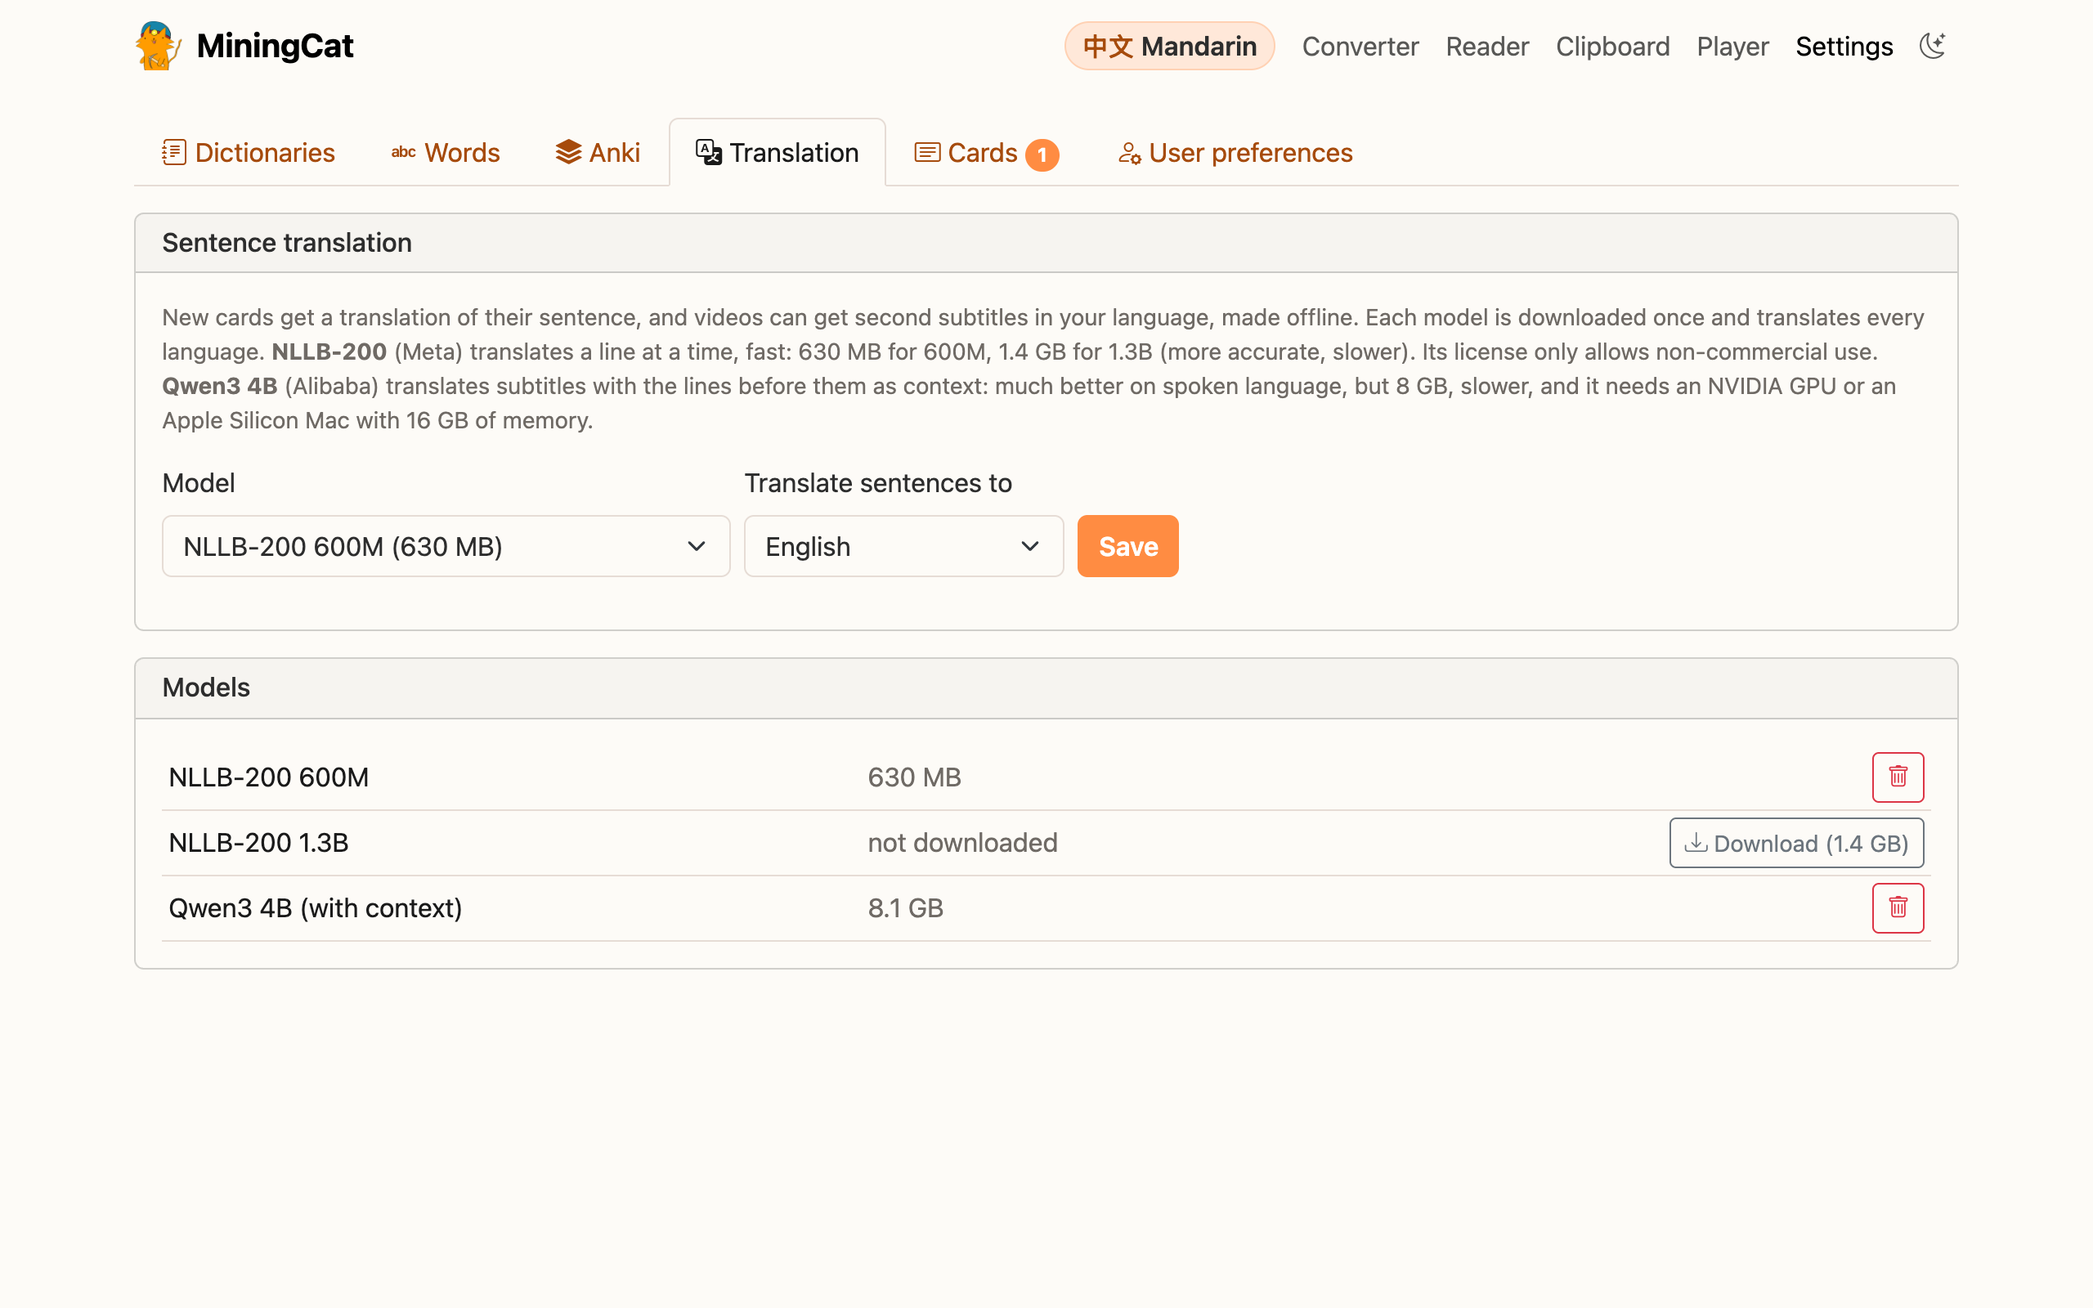
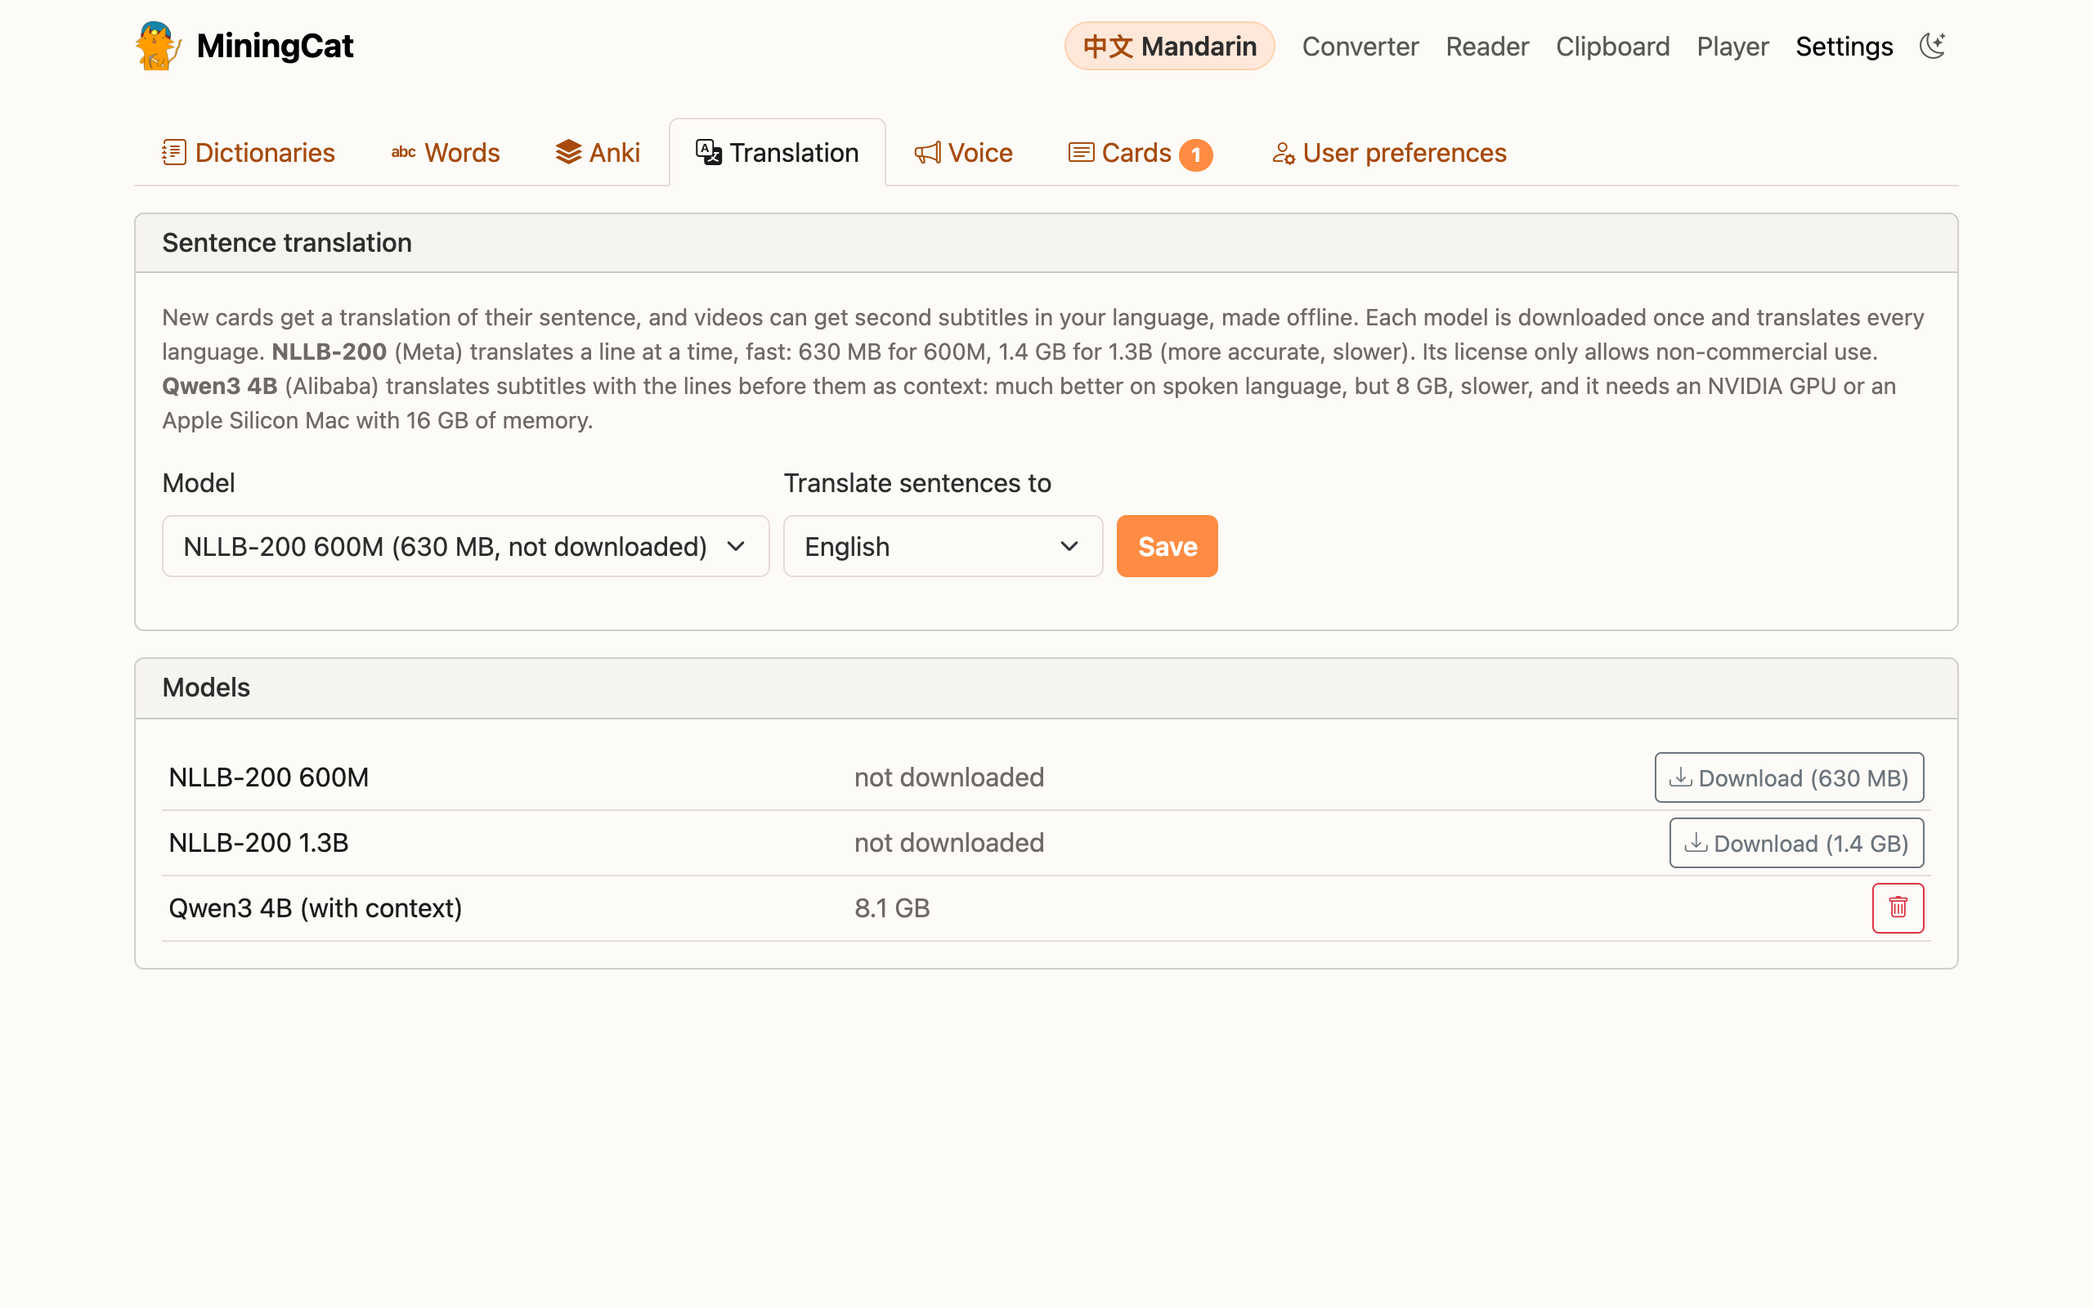
feat: enhance local TTS support for Taigi + updated docs

diff --git a/src/miningcat/interfaces/web/static/settings.js b/src/miningcat/interfaces/web/static/settings.js
@@ -349,24 +349,56 @@ const STEP_LABELS = { 8: "Fast (8 steps)", 16: "Better (16 steps, 2× slower)", 
 
 async function renderLocalVoice() {
   try {
-    const voice = await api("/api/tts/local-voice");
+    const voice = await api(`/api/tts/local-voice?language=${encodeURIComponent(STUDY)}`);
     $("tts-use-edge").checked = voice.use_edge;
+    const taigi = Boolean(voice.mms);  // Edge has no Taigi voice: MMS or OmniVoice
+    $("edge-option").hidden = taigi;
+    $("tts-intro").textContent = taigi
+      ? "Sentences are read by Meta's MMS or by OmniVoice, voices running on your computer (saved right away). MMS is generally faster."
+      : "Sentences are read by OmniVoice, a voice running on your computer (every language), or by Edge's voices (saved right away).";
+    renderTaigiVoice(taigi);
     options($("tts-steps"), voice.steps.map((s) => [String(s), STEP_LABELS[s] || `${s} steps`]), String(voice.chosen_steps));
     $("local-voice-options").hidden = !voice.installed;
     $("local-voice-install").hidden = voice.installed;
+    $("mms-voice").hidden = !voice.mms || voice.mms.installed;  // Taigi's own voice
+    if ((voice.mms && !voice.mms.installed) || (taigi && !voice.installed)) followInstall();
     const state = $("local-voice-state");
-    if (voice.installed) {
+    if (taigi) {
+      state.textContent = voice.installed
+        ? "OmniVoice is installed. The first sentence takes longer: the voice loads (and is made up, the first time)."
+        : `OmniVoice is optional for Taigi, MMS reads it. Large: about 4 GB with its model (or ${voice.install_command}).`;
+      state.className = "small text-body-secondary m-0";
+    } else if (voice.installed) {
       state.textContent = voice.use_edge
         ? "OmniVoice is installed: it reads the sentences when Edge doesn't answer, and its voices are in the list above."
         : "OmniVoice is installed. The first sentence takes longer: the voice loads (and is made up, the first time for a language).";
       state.className = "small text-body-secondary m-0";
     } else {
       state.textContent = voice.use_edge
-        ? `Without OmniVoice, sentences can't be read when Edge doesn't answer. Large: about 4 GB with its model (or \`${voice.install_command}\`).`
-        : `Without OmniVoice or edge-tts, sentences can't be read. Large: about 4 GB with its model (or \`${voice.install_command}\`).`;
+        ? `Without OmniVoice, sentences can't be read when Edge doesn't answer. Large: about 4 GB with its model (or ${voice.install_command}).`
+        : `Without OmniVoice or edge-tts, sentences can't be read. Large: about 4 GB with its model (or ${voice.install_command}).`;
       state.className = "small text-warning-emphasis m-0";
       followInstall();  // an install started before the page loaded
     }
+  } catch (err) { showError(err); }
+}
+
+// Taigi's voice: MMS or OmniVoice (when installed), the one reading its sentences.
+async function renderTaigiVoice(taigi) {
+  const box = $("taigi-voice-choice");
+  box.hidden = true;
+  if (!taigi) return;
+  try {
+    const { voices, chosen } = await api(`/api/tts/voices?language=${encodeURIComponent(STUDY)}`);
+    options($("taigi-voice"), voices.map((v) => [v.id, v.label]), chosen);
+    box.hidden = voices.length < 2;
+  } catch (err) { showError(err); }
+}
+
+async function saveTaigiVoice() {
+  try {
+    S.config = (await api("/api/anki/config", { tts_voices: { [STUDY]: $("taigi-voice").value } })).config;
+    renderVoices(STUDY);
   } catch (err) { showError(err); }
 }
 
@@ -392,29 +424,40 @@ async function installOmniVoice() {
   } catch (err) { showError(err); }
 }
 
+async function installTaigiVoice() {
+  const sure = await confirmBox("Install Taigi's voice?",
+    "Meta's MMS reads Taigi on your computer. It comes with Taigi's speech engines (Qwen3-ASR, Meta's MMS): a large " +
+    "install, a few minutes.", "Install");
+  if (!sure) return;
+  try {
+    await api("/api/install-engines", { engines: "taigi" });
+    followInstall();
+  } catch (err) { showError(err); }
+}
+
 let installPoll = null;
 async function followInstall() {
   if (installPoll) return;
-  const button = $("tts-install");
-  const state = $("tts-install-state");
+  const buttons = [$("tts-install"), $("mms-install")];
+  const states = [$("tts-install-state"), $("mms-install-state")];
   let seen = false;  // the install was seen running: its end is reported
   const check = async () => {
     let job;
     try { ({ job } = await api("/api/state")); } catch { return; }
     const installing = job.running && job.kind === "install";
     seen ||= installing;
-    button.disabled = installing;
-    state.textContent = installing ? `${job.status || "Installing…"} (log: Converter page)` : "";
+    for (const button of buttons) button.disabled = installing;
+    for (const state of states) state.textContent = installing ? `${job.status || "Installing…"} (log: Converter page)` : "";
     if (installing) return;
     clearInterval(installPoll);
     installPoll = null;
     if (!seen) return;
-    const { installed } = await api("/api/tts/local-voice").catch(() => ({ installed: false }));
-    if (installed) {
+    const voice = await api(`/api/tts/local-voice?language=${encodeURIComponent(STUDY)}`).catch(() => ({}));
+    if (voice.installed || (voice.mms && voice.mms.installed)) {
       renderLocalVoice();
       renderVoices(STUDY);
     } else if (job.status !== "Done") {
-      state.textContent = "The install didn't finish: see its log on the Converter page.";
+      for (const state of states) state.textContent = "The install didn't finish: see its log on the Converter page.";
     }
   };
   installPoll = setInterval(check, 2000);
@@ -758,8 +801,10 @@ async function init() {
     $("note-save").addEventListener("click", saveNoteSetup);
     $("tts-use-edge").addEventListener("change", saveLocalVoice);
     $("tts-steps").addEventListener("change", saveLocalVoice);
+    $("taigi-voice").addEventListener("change", saveTaigiVoice);
     $("tts-new-voice").addEventListener("click", newLocalVoice);
     $("tts-install").addEventListener("click", installOmniVoice);
+    $("mms-install").addEventListener("click", installTaigiVoice);
     $("note-type-install").addEventListener("click", installNoteType);
     $("deck-create").addEventListener("click", createDeck);
     $("translation-save").addEventListener("click", saveTranslation);

diff --git a/src/miningcat/interfaces/web/templates/settings.html b/src/miningcat/interfaces/web/templates/settings.html
@@ -214,17 +214,29 @@
       <div class="card">
         <h2 class="card-header h6">Text-to-speech</h2>
         <div class="card-body vstack gap-2">
-          <p class="small text-body-secondary m-0">Sentences are read by OmniVoice, a voice running on your computer (every
+          <p class="small text-body-secondary m-0" id="tts-intro">Sentences are read by OmniVoice, a voice running on your computer (every
             language), or by Edge's voices (saved right away).</p>
           <p class="small text-body-secondary m-0">The first use of OmniVoice can be long: the model is put in the cache, and
             the voice of each language is made up once.</p>
-          <div class="form-check">
+          <div class="form-check" id="edge-option">
             <input class="form-check-input" type="checkbox" id="tts-use-edge">
             <label class="form-check-label" for="tts-use-edge">Use edge-tts when available (not local but faster)</label>
+          </div>
+          <div id="taigi-voice-choice" hidden>
+            <label class="form-label" for="taigi-voice">Taigi voice</label>
+            <select class="form-select w-auto" id="taigi-voice"></select>
           </div>
           <div class="d-flex flex-wrap align-items-center gap-2" id="local-voice-install" hidden>
             <button type="button" class="btn btn-sm btn-outline-primary" id="tts-install"><i class="bi bi-download" aria-hidden="true"></i> Install OmniVoice (local)</button>
             <span class="small text-body-secondary" id="tts-install-state"></span>
+          </div>
+          <div class="vstack gap-1" id="mms-voice" hidden>
+            <p class="small text-body-secondary m-0">Taigi also has its own local voice, Meta's MMS, installed with
+              Taigi's speech engines (Qwen3-ASR as well): it reads the sentences in Pe̍h-ōe-jī.</p>
+            <div class="d-flex flex-wrap align-items-center gap-2">
+              <button type="button" class="btn btn-sm btn-outline-primary" id="mms-install"><i class="bi bi-download" aria-hidden="true"></i> Install Taigi's voice (MMS)</button>
+              <span class="small text-body-secondary" id="mms-install-state"></span>
+            </div>
           </div>
           <div class="row g-2 align-items-end" id="local-voice-options">
             <div class="col-md-auto">

diff --git a/src/miningcat/application/mining/sentence_tts.py b/src/miningcat/application/mining/sentence_tts.py
@@ -3,7 +3,7 @@ import re
 from miningcat.application.anki.config import get_config
 from miningcat.application.voices import language_voices
 from miningcat.domain.languages import Language, language_key
-from miningcat.infrastructure.speech import mms_tts, omnivoice_tts
+from miningcat.infrastructure.speech import engine_install, mms_tts, omnivoice_tts
 from miningcat.infrastructure.speech.edge_tts import EdgeTts
 from miningcat.infrastructure.speech.local_models import SpeechError
 
@@ -95,14 +95,18 @@ def _omnivoice(language: str, text: str) -> bytes:
         raise TtsError(f"The voice couldn't be generated: {exc}")
 
 
-def local_voice() -> dict:
+def local_voice(language: str = "") -> dict:
     """OmniVoice's state, for the settings: installed or how to install it, the steps offered and chosen, and whether
-    Edge's voices are used instead when available."""
+    Edge's voices are used instead when available. For Taigi, its own local voice (MMS) as well: installed or not."""
     config = get_config()
-    return {
+    state = {
         "installed": omnivoice_tts.installed(), "install_command": omnivoice_tts.INSTALL_COMMAND,
         "steps": list(omnivoice_tts.STEPS), "chosen_steps": config["tts_steps"], "use_edge": config["tts_use_edge"],
     }
+    if language == "nan":
+        state["mms"] = {"installed": engine_install.installed(engine_install.TAIGI),
+                        "install_command": "make install-taigi"}
+    return state
 
 
 def new_voice(language: str) -> None:

diff --git a/src/tests/application/mining/mining.test.py b/src/tests/application/mining/mining.test.py
@@ -1135,10 +1135,15 @@ def test_edge_failure_without_omnivoice(monkeypatch):
     assert sentence_tts.voices("fr") == {"voices": [], "default": ""}  # Settings › Voice offers to install OmniVoice
 
 
-def test_local_voice_settings(client):
+def test_local_voice_settings(client, monkeypatch):
+    from miningcat.infrastructure.speech import engine_install
+    monkeypatch.setattr(engine_install, "installed", lambda engines: False)
     state = client.get("/api/tts/local-voice").get_json()
     assert state == {"installed": False, "install_command": "make install-omnivoice", "steps": [8, 16, 32],
                      "chosen_steps": 8, "use_edge": True}  # edge-tts by default
+    assert "mms" not in state
+    assert client.get("/api/tts/local-voice?language=nan").get_json()["mms"] == {
+        "installed": False, "install_command": "make install-taigi"}  # Taigi's own voice
     anki.save_config({"tts_use_edge": False, "tts_steps": "16"})
     assert client.get("/api/tts/local-voice").get_json()["chosen_steps"] == 16
     assert anki.get_config()["tts_use_edge"] is False

diff --git a/tools/screenshots.py b/tools/screenshots.py
@@ -412,7 +412,7 @@ class Shooter:
     def settings(self):
         self.demo.ensure_card()
         for tab, name, full in [("dictionaries", "settings-dictionaries", True), ("languages", "settings-languages", True),
-                                ("anki", "settings-anki", True), ("translation", "settings-translation", False),
+                                ("anki", "settings-anki", True), ("translation", "settings-translation", False), ("voice", "settings-voice", False),
                                 ("cards", "settings-cards", False), ("preferences", "settings-preferences", False)]:
             self.go("/settings/")
             self.page.click(f'[data-tab="{tab}"]')
@@ -454,6 +454,9 @@ class Shooter:
         self.page.click('[data-tab="languages"]')
         self.page.wait_for_timeout(2000)
         self.shot("taigi-settings")
+        self.page.click('[data-tab="voice"]')
+        self.page.wait_for_timeout(2000)
+        self.shot("taigi-voice")
         self.demo.study("zh")
 
 

diff --git a/src/miningcat/interfaces/web/blueprints/sentence_tools.py b/src/miningcat/interfaces/web/blueprints/sentence_tools.py
@@ -52,7 +52,8 @@ def api_tts_voices():
 # OmniVoice, the local voice: installed or not, its steps. Its settings are saved with the cards' (/api/anki/config).
 @bp.get("/api/tts/local-voice")
 def api_tts_local_voice():
-    return jsonify(sentence_tts.local_voice())
+    language = request.args.get("language")
+    return jsonify(sentence_tts.local_voice(study_language(language) if language else ""))
 
 
 # OmniVoice makes up another voice for the language: its next sentence is read by it.

diff --git a/docs/how-to-use/taigi.md b/docs/how-to-use/taigi.md
@@ -18,9 +18,9 @@ Whisper doesn't know Taigi and Edge has no Taigi voice, so Taigi uses other open
 | ---- | ------ |
 | Transcription (*Generate subtitles*, videos) | [Qwen3-ASR](https://github.com/QwenLM/Qwen3-ASR) (Alibaba, Apache 2.0), which knows Minnan among its Chinese dialects |
 | Aligning a book on its audiobook (*Standard*) | Meta's [MMS aligner](https://pytorch.org/audio/stable/tutorials/forced_alignment_for_multilingual_data_tutorial.html), on the book's text read as Tâi-lô |
-| Speech synthesis (*Generate audio*, sentence audio of cards) | Meta's [MMS-TTS Taigi voice](https://huggingface.co/facebook/mms-tts-nan) |
+| Speech synthesis (*Generate audio*, sentence audio of cards) | Meta's [MMS-TTS Taigi voice](https://huggingface.co/facebook/mms-tts-nan), or [OmniVoice](audiobook-ebook.md) (optional, see [below](#voice)) |
 
-Install them once with (the converter also offers it, in a pop-up, when you choose Taigi and they aren't installed):
+Install them once from the pop-up the converter offers when you choose Taigi, from **Settings › Voice** (*Install Taigi's voice (MMS)*), or with:
 
 ```bash
 make install-taigi
@@ -30,9 +30,23 @@ It installs [Qwen3-ASR](audiobook-ebook.md#qwen3-asr-optional) (`make install-qw
 
 Their models are downloaded the first time they're used: about 1.8 GB for Qwen3-ASR 0.6B (4.7 GB for 1.7B), 1.2 GB for the aligner, 140 MB for the voice. An NVIDIA GPU or an Apple Silicon Mac makes transcription much faster, but a CPU works.
 
+## Voice
+
+Edge has no Taigi voice, so **the edge-tts option of Settings › Voice doesn't apply to Taigi**: it isn't shown. Two local voices read the sentences of your cards and the books you generate:
+
+| Voice | |
+| ----- | - |
+| **MMS** (default) | Meta's voice, installed with the engines above. Generally faster, and light (140 MB). |
+| **OmniVoice** | Optional, large (about 4 GB, in its own environment): the same voice engine as the other languages, and a voice made up for Taigi. Slower, especially the first time (the model is put in the cache and the voice is made up once). |
+
+Once OmniVoice is installed (**Install OmniVoice** in the same tab, or `make install-omnivoice`), *Taigi voice* lets you pick one or the other: it's saved right away, and it's the same choice as *Voice reading sentences without audio* in **Settings › Anki**. OmniVoice's quality (8, 16 or 32 steps) and *Try another Taigi voice* also appear then.
+
+![Settings › Voice while studying Taigi: MMS reads it, OmniVoice is optional](../assets/screenshots/taigi-voice.png)
+
 !!! warning "Limits"
     - Qwen3-ASR writes what it hears in Chinese characters, often the Mandarin ones (要 rather than 欲): the subtitles of a video are a help to follow it, not a Hanji transcription to learn from.
     - The MMS voice was trained on Bible recordings in POJ: the text is read in POJ, whatever it's written in. Its licence (CC BY-NC 4.0) only allows non-commercial use.
+    - OmniVoice barely knows Hanji (it was trained on little Taigi) and reads them in Mandarin: here too, the text is converted to POJ before it's read. Its model has a non-commercial licence as well (CC BY-NC 4.0).
 
 In the converter, *Precision* picks Qwen3-ASR's size: **0.6B** (default) or **1.7B** (more accurate, slower). On the command line, `--model qwen3-0.6b` or `qwen3-1.7b` (Whisper sizes work too: `medium`, `large` and `turbo` use 1.7B).
 

diff --git a/docs/how-to-use/index.md b/docs/how-to-use/index.md
@@ -14,7 +14,9 @@
 Everything else (Whisper, yt-dlp, edge-tts, OpenCC, [owocr](https://pypi.org/project/owocr/)...) is installed by `make install`.
 The local voice reading the sentences and the books, [OmniVoice](https://github.com/k2-fsa/OmniVoice), is large: install
 it from Settings › Voice (Install OmniVoice), or with `make install-omnivoice` (about 4 GB with its model, in its own
-environment `.venv-omnivoice`). The first use can be long: the model is put in the cache, and each language's voice is made up once. Settings › Voice also sets its quality. edge-tts is used by default (faster, but online): once OmniVoice is installed,
+environment `.venv-omnivoice`). The first use can be long: the model is put in the cache, and each language's voice is made up once.
+
+![Settings › Voice: edge-tts or OmniVoice, its install and its quality](../assets/screenshots/settings-voice.png) Settings › Voice also sets its quality. edge-tts is used by default (faster, but online): once OmniVoice is installed,
 OmniVoice takes over when Edge fails, and reads everything if you untick "Use edge-tts when available".
 
 ## Installation
